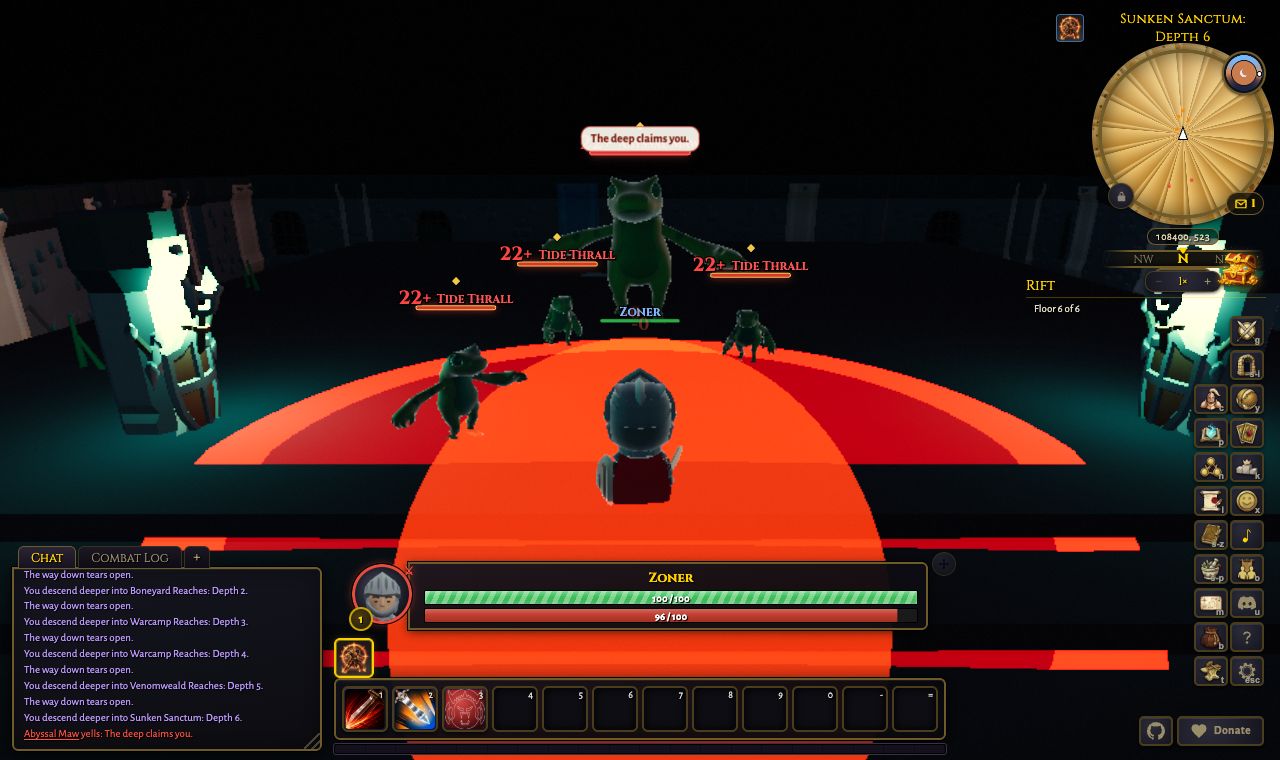
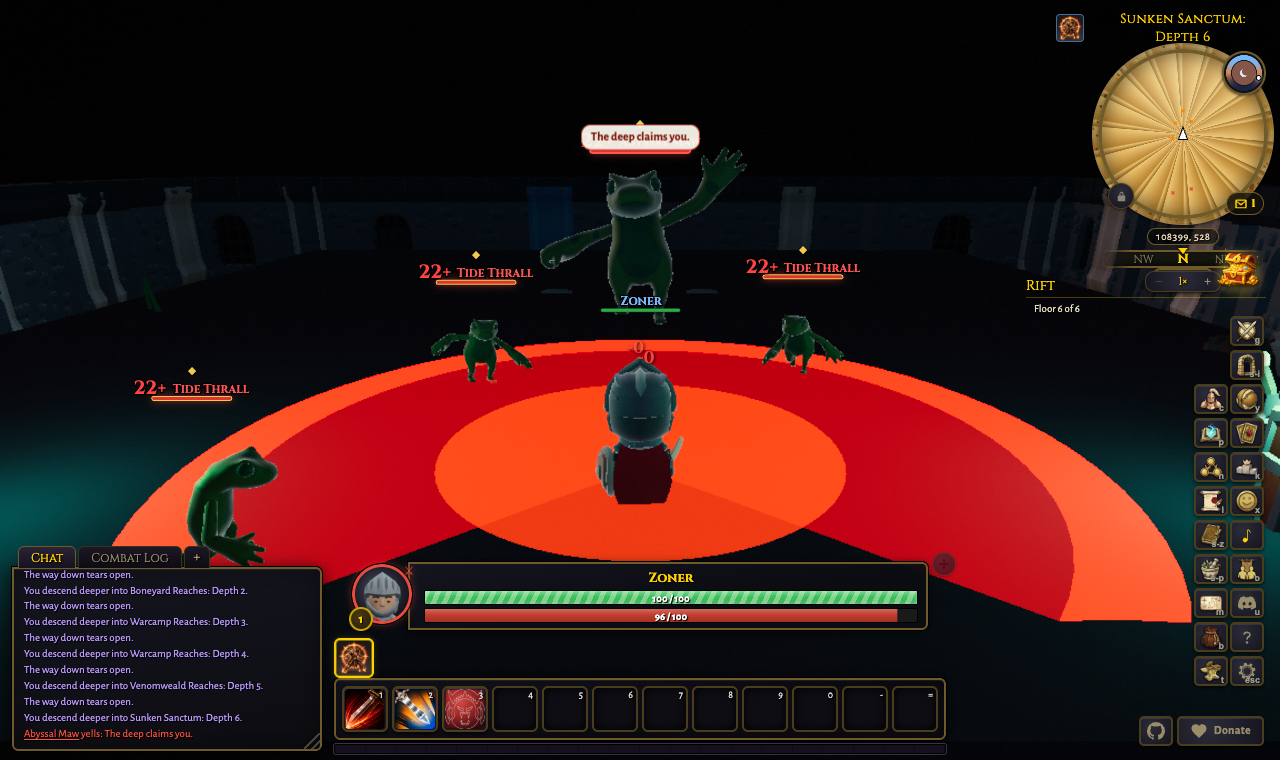
fix(render): alpha-blend the death-zone fill so barrage overlaps stay readable
An S-rank deathZoneStrike places one zone under every living member,
and five additive fills summed the overlaps into a yellow-white wash
that erased the zone EDGES, the one thing a player needs to find
(verified with a staged five-zone capture). The interior wash and the
timer sweep now alpha-blend, converging toward their own color at any
overlap depth, while the thin rim band keeps its additive glow so a
crossing reads brighter. Single-zone readability is unchanged or
better; screenshots re-captured, plus an after-barrage frame
documenting the worst-case stack.

diff --git a/src/render/rift_death_zone.ts b/src/render/rift_death_zone.ts
@@ -131,11 +131,17 @@ export class RiftDeathZoneVisuals {
     rim.renderOrder = 10; // above terrain, below entities
     group.add(rim);
 
+    // Fill and sweep blend NORMALLY (not additively) on purpose: an S-rank
+    // deathZoneStrike barrage stacks one zone per living member, and additive
+    // fills summed the overlaps to a white-out that erased the zone EDGES,
+    // the one thing a player needs to find (verified with a five-zone
+    // capture). Alpha blending converges toward the fill color instead, so
+    // any number of overlaps stays readable; the thin rim band keeps its
+    // additive glow (overlap area is small and a brighter crossing helps).
     const fillMat = new THREE.MeshBasicMaterial({
-      color: new THREE.Color(BASE_COLOR),
+      color: new THREE.Color(BASE_COLOR).multiplyScalar(1.3),
       transparent: true,
       opacity: FILL_OPACITY,
-      blending: THREE.AdditiveBlending,
       depthWrite: false,
       side: THREE.DoubleSide,
     });
@@ -153,7 +159,6 @@ export class RiftDeathZoneVisuals {
       color: new THREE.Color(SWEEP_COLOR).multiplyScalar(1.4),
       transparent: true,
       opacity: SWEEP_BASE_OPACITY,
-      blending: THREE.AdditiveBlending,
       depthWrite: false,
       side: THREE.DoubleSide,
     });
